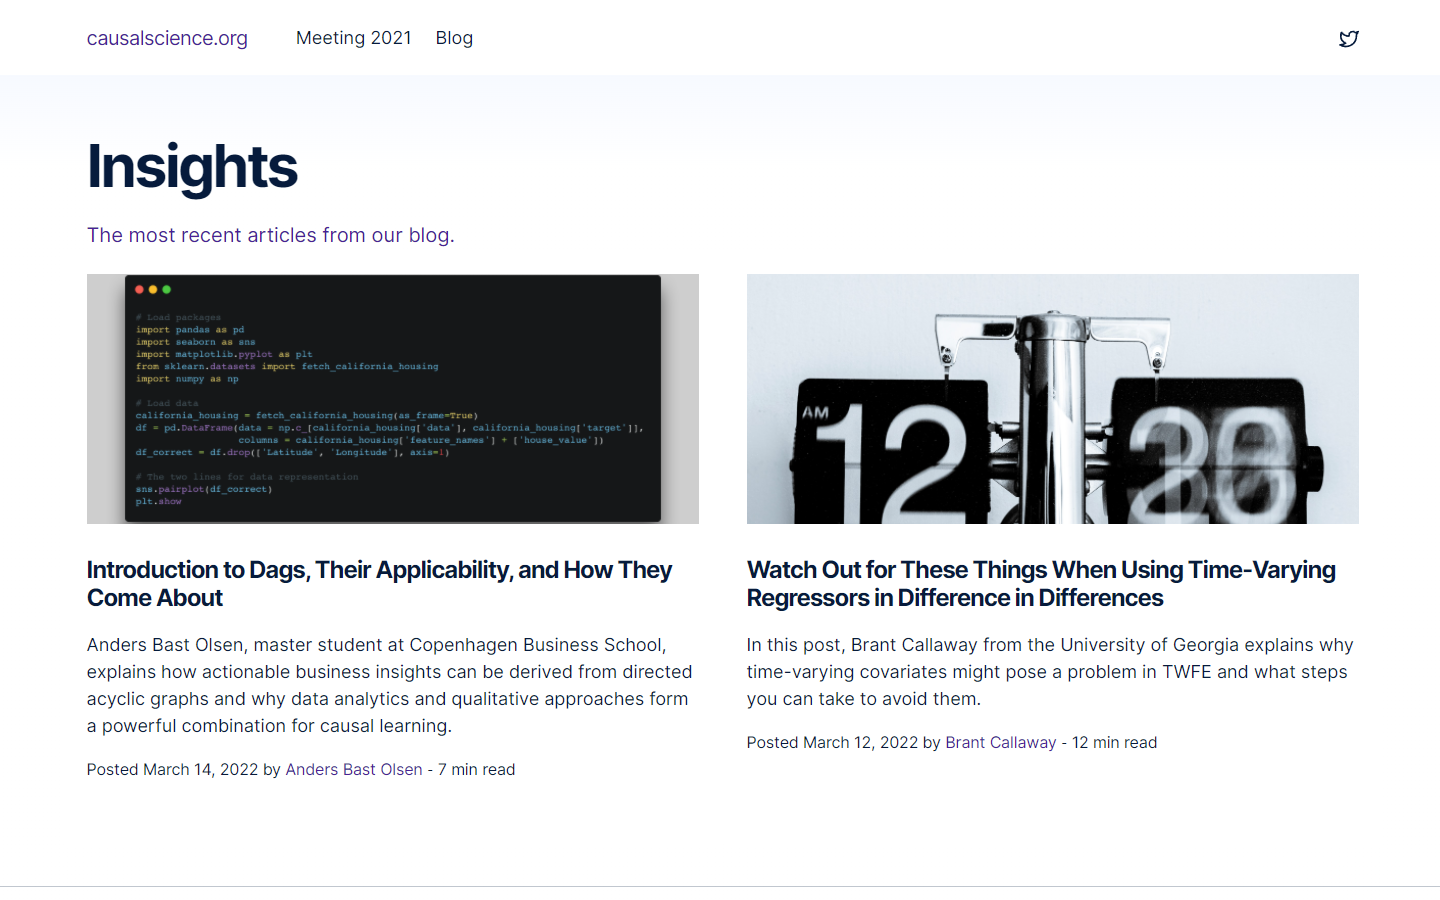
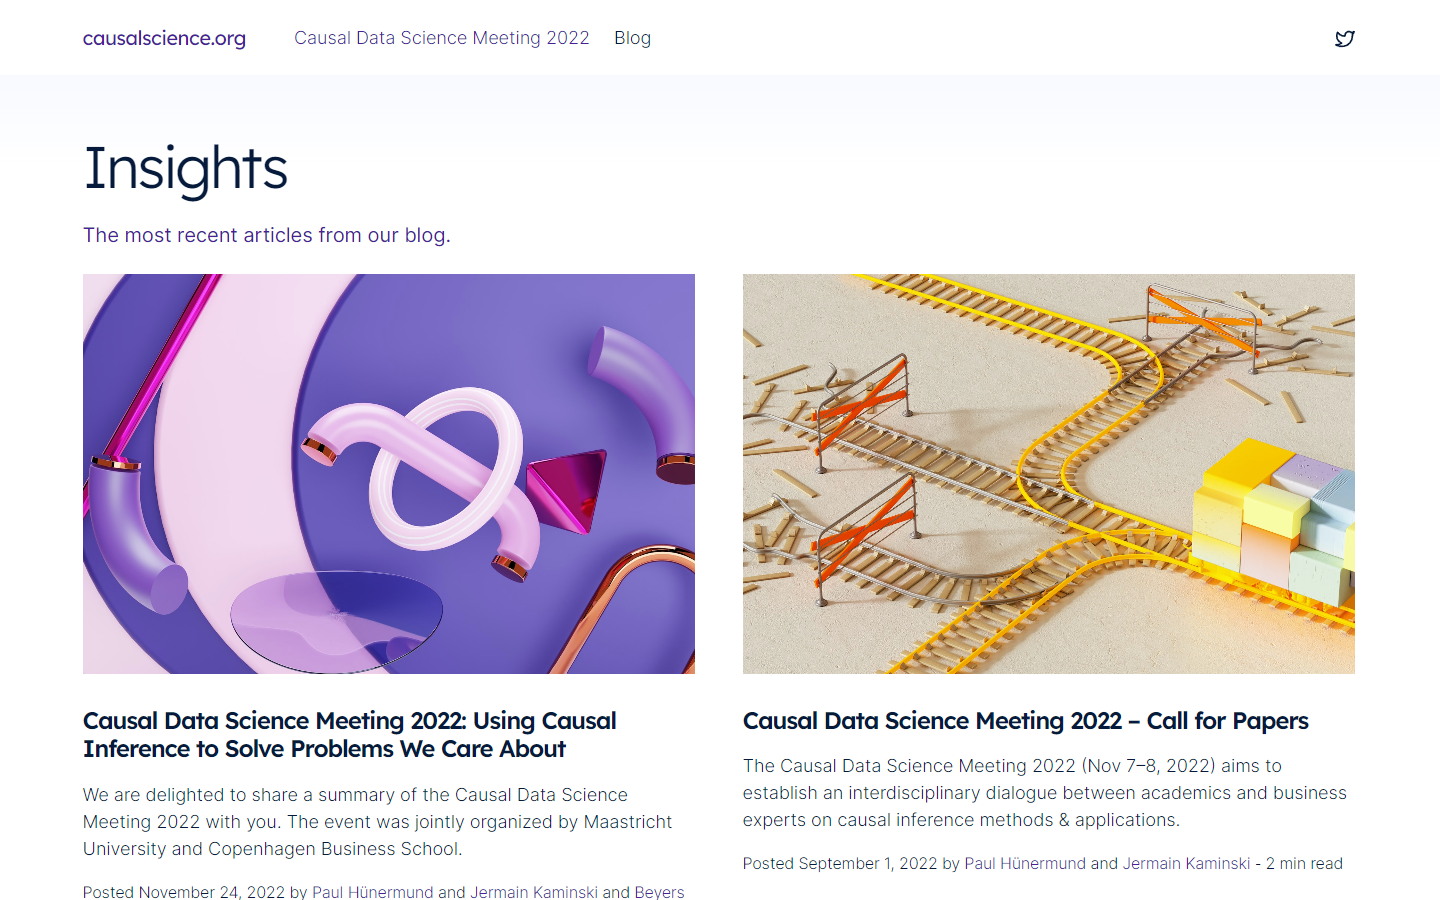
content: update showcase + main navigation

diff --git a/layouts/partials/main/featured-users.html b/layouts/partials/main/featured-users.html
@@ -1,19 +1,20 @@
 <section class="section section-featured mt-3 bg-light py-5">
   <div class="container">
     <h2 class="h3 mt-0 text-center">Who's using Doks</h2>
-    <div class="row justify-content-center mt-3 g-3">
+    <div class="row justify-content-center mt-3 g-4">
       {{ range where (where .Site.RegularPages.ByDate.Reverse "Section" "showcase") "Params.featured" true -}}
       <div class="col-sm-8 col-md-6 col-xl-4">
         <div class="card h-100">
           {{ $image := index .Params.images 0 -}}
           {{ .Scratch.Set "src" $image -}}
           {{ .Scratch.Set "alt" .Title -}}
-          <div class="card-body">
-            <h3 class="h5 card-title my-2"><a class="card-link stretched-link text-dark text-decoration-none" href="{{ .RelPermalink }}">{{ .Params.title | title }}</a></h3>
-          </div>
+          {{ .Scratch.Set "class" "card-img-top" -}}
+          {{ partial "main/img.html" . }}
+          <a class="card-link stretched-link text-dark text-decoration-none" href="{{ .RelPermalink }}"><span class="visually-hidden">{{ .Params.title | title }}</span></a>
         </div>
       </div>
       {{ end }}
     </div>
+    <p class="text-center mt-4 mb-0"><a href="{{ "/showcase/" | absURL }}">View all Showcase</a></p>
   </div>
 </section>

diff --git a/layouts/partials/header/header.html b/layouts/partials/header/header.html
@@ -40,7 +40,8 @@
                   {{ range .Children -}}
                   {{- $active = eq .Name $current.Title -}}
                     <li>
-                      <a class="dropdown-item{{ if $active }} active{{ end }}" href="{{ .URL | relLangURL }}"{{ if $active }} aria-current="true"{{ end }}>{{ .Name }}</a>
+                      <a class="dropdown-item{{ if $active }} active{{ end }}" href="{{ .URL | relLangURL }}"{{ if $active }} aria-current="true"{{ end }}{{ with .Params.target}} target="{{ . }}"{{ end }}>{{ .Name }}{{ with .Post }}{{ . | safeHTML }}{{ end }}</a>
+                      <!-- <a class="dropdown-item{{ if $active }} active{{ end }}" href="{{ .URL | relLangURL }}"{{ if $active }} aria-current="true"{{ end }}>{{ .Name }}</a> -->
                     </li>
                   {{ end -}}
                 </ul>

diff --git a/assets/scss/layouts/_header.scss b/assets/scss/layouts/_header.scss
@@ -349,3 +349,8 @@ button#doks-versions {
     width: 7.875rem;
   }
 }
+
+.dropdown-item svg {
+  margin-left: 0.25rem;
+  margin-bottom: 0.25rem;
+}

diff --git a/content/showcase/screenshotone/index.md b/content/showcase/screenshotone/index.md
@@ -1,19 +1,19 @@
 ---
 title: "ScreenshotOne"
-description: "Take a screenshot of any URL using a fast and reliable API with SDK for any language, including PHP, JavaScript, Go, and Java."
-lead: "Fast and reliable screenshot API."
+description: "Take stunning site screenshots via API. Render websites and HTML as images. Block cookie banners and ads. The API uses the latest Google Chrome for rendering and Google Cloud Platform for performance and scalability."
+lead: "Take stunning site screenshots via API. Render websites and HTML as images. Block cookie banners and ads. The API uses the latest Google Chrome for rendering and Google Cloud Platform for performance and scalability."
 date: 2022-06-14T13:00:05+02:00
 lastmod: 2022-06-14T13:00:05+03:00
 draft: false
 images: ["screenshotone.png"]
-link: "https://screenshotone.com/"
+link: "https://screenshotone.com"
 menu:
   showcase:
     parent: "browse"
 weight: 270
 toc: false
-pinned: false
-featured: false
+pinned: true
+featured: true
 types: ["developer"]
 functionalities: ["blog", "breadcrumb", "search", "highlight.js"]
 ---

diff --git a/content/showcase/causalscience.org/index.md b/content/showcase/causalscience.org/index.md
@@ -1,7 +1,7 @@
 ---
 title: "causalscience.org"
-description: "Causal Data Science Meeting 2021. The Causal Data Science Meeting aims to bring experts from industry and science together. Participation is free of charge."
-lead: "Causal Data Science Meeting 2021. The Causal Data Science Meeting aims to bring experts from industry and science together. Participation is free of charge."
+description: "Causal Data Science Meeting 2022. The Causal Data Science Meeting 2022 aims to foster an interdisciplinary dialogue between data scientists from industry and academia on causality in machine learning and AI."
+lead: "Causal Data Science Meeting 2022. The Causal Data Science Meeting 2022 aims to foster an interdisciplinary dialogue between data scientists from industry and academia on causality in machine learning and AI."
 date: 2021-11-16T12:20:40+01:00
 lastmod: 2021-11-16T12:20:40+01:00
 draft: false

diff --git a/content/showcase/dive-coaching-australia/index.md b/content/showcase/dive-coaching-australia/index.md
@@ -1,0 +1,19 @@
+---
+title: "Dive Coaching Australia"
+description: "Private Coaching. For Those Who Yearn To Learn. At Dive Coaching Australia, we focus on diving well rather than getting a card. We only do private coaching, so we can focus on what matters: you."
+lead: "Private Coaching. For Those Who Yearn To Learn. At Dive Coaching Australia, we focus on diving well rather than getting a card. We only do private coaching, so we can focus on what matters: you."
+date: 2022-12-12T08:57:39+01:00
+lastmod: 2022-12-12T08:57:39+01:00
+draft: false
+images: ["dive-coaching-australia.png"]
+link: "https://www.divecoaching.com.au"
+menu:
+  showcase:
+    parent: "browse"
+weight: 280
+toc: false
+pinned: true
+featured: false
+types: ["Coaching"]
+functionalities: ["blog", "search", "dark mode"]
+---

diff --git a/content/showcase/pntfx/index.md b/content/showcase/pntfx/index.md
@@ -1,0 +1,19 @@
+---
+title: "pntfx"
+description: "Mathematics is not about isolated formulae but about understanding concepts and connections. In pntfx ('bridge-builder' (pons + facere)), we focus on this network of mathematics!"
+lead: "Building Bridges between Mathematical Concepts. Mathematics is not about isolated formulae but about understanding concepts and connections. In pntfx ('bridge-builder' (pons + facere)), we focus on this network of mathematics!"
+date: 2022-12-12T08:43:15+01:00
+lastmod: 2022-12-12T08:43:15+01:00
+draft: false
+images: ["pntfx.png"]
+link: "https://pntfx.com"
+menu:
+  showcase:
+    parent: "browse"
+weight: 275
+toc: false
+pinned: true
+featured: false
+types: ["university"]
+functionalities: ["blog", "search", "tabs", "graph navigation"]
+---

diff --git a/content/showcase/butterops/index.md b/content/showcase/butterops/index.md
@@ -4,7 +4,7 @@ description: "We're a group of developers, creating world class open-sourced pro
 lead: "We're a group of developers, creating world class open-sourced products and helping fellow devs, to grow their side projects into sustainable startups."
 date: 2021-02-19T12:04:41+01:00
 lastmod: 2021-02-19T12:04:41+01:00
-draft: false
+draft: true
 images: ["butterops.png"]
 link: "https://www.butterops.dev"
 menu:

diff --git a/content/showcase/localstack/index.md b/content/showcase/localstack/index.md
@@ -4,7 +4,7 @@ description: "A fully functional local cloud stack. Develop and test your cloud 
 lead: "A fully functional local cloud stack. Develop and test your cloud and serverless apps offline!"
 date: 2021-08-13T10:52:09+02:00
 lastmod: 2021-08-13T10:52:09+02:00
-draft: false
+draft: true
 images: ["localstack.png"]
 link: "https://localstack.cloud"
 menu:

diff --git a/content/showcase/dlx/index.md b/content/showcase/dlx/index.md
@@ -4,7 +4,7 @@ description: "DLX is a helper for LXD to rapidly provision development environme
 lead: "DLX is a helper for LXD to rapidly provision development environments on your own hardware."
 date: 2022-03-31T13:53:56+02:00
 lastmod: 2022-03-31T13:53:56+02:00
-draft: false
+draft: true
 images: ["dlx.png"]
 link: "https://dlx.rocks"
 menu:

diff --git a/content/showcase/lotus-docs/index.md b/content/showcase/lotus-docs/index.md
@@ -13,7 +13,7 @@ menu:
 weight: 190
 toc: false
 pinned: false
-featured: true
+featured: false
 types: ["application"]
 functionalities: ["dark mode", "search", "mermaid", "highlight.js"]
 ---

diff --git a/content/showcase/gamesupport/index.md b/content/showcase/gamesupport/index.md
@@ -12,7 +12,7 @@ menu:
     parent: "browse"
 weight: 100
 toc: false
-pinned: true
+pinned: false
 featured: false
 types: ["product"]
 functionalities: ["blog", "dark mode", "custom font"]
